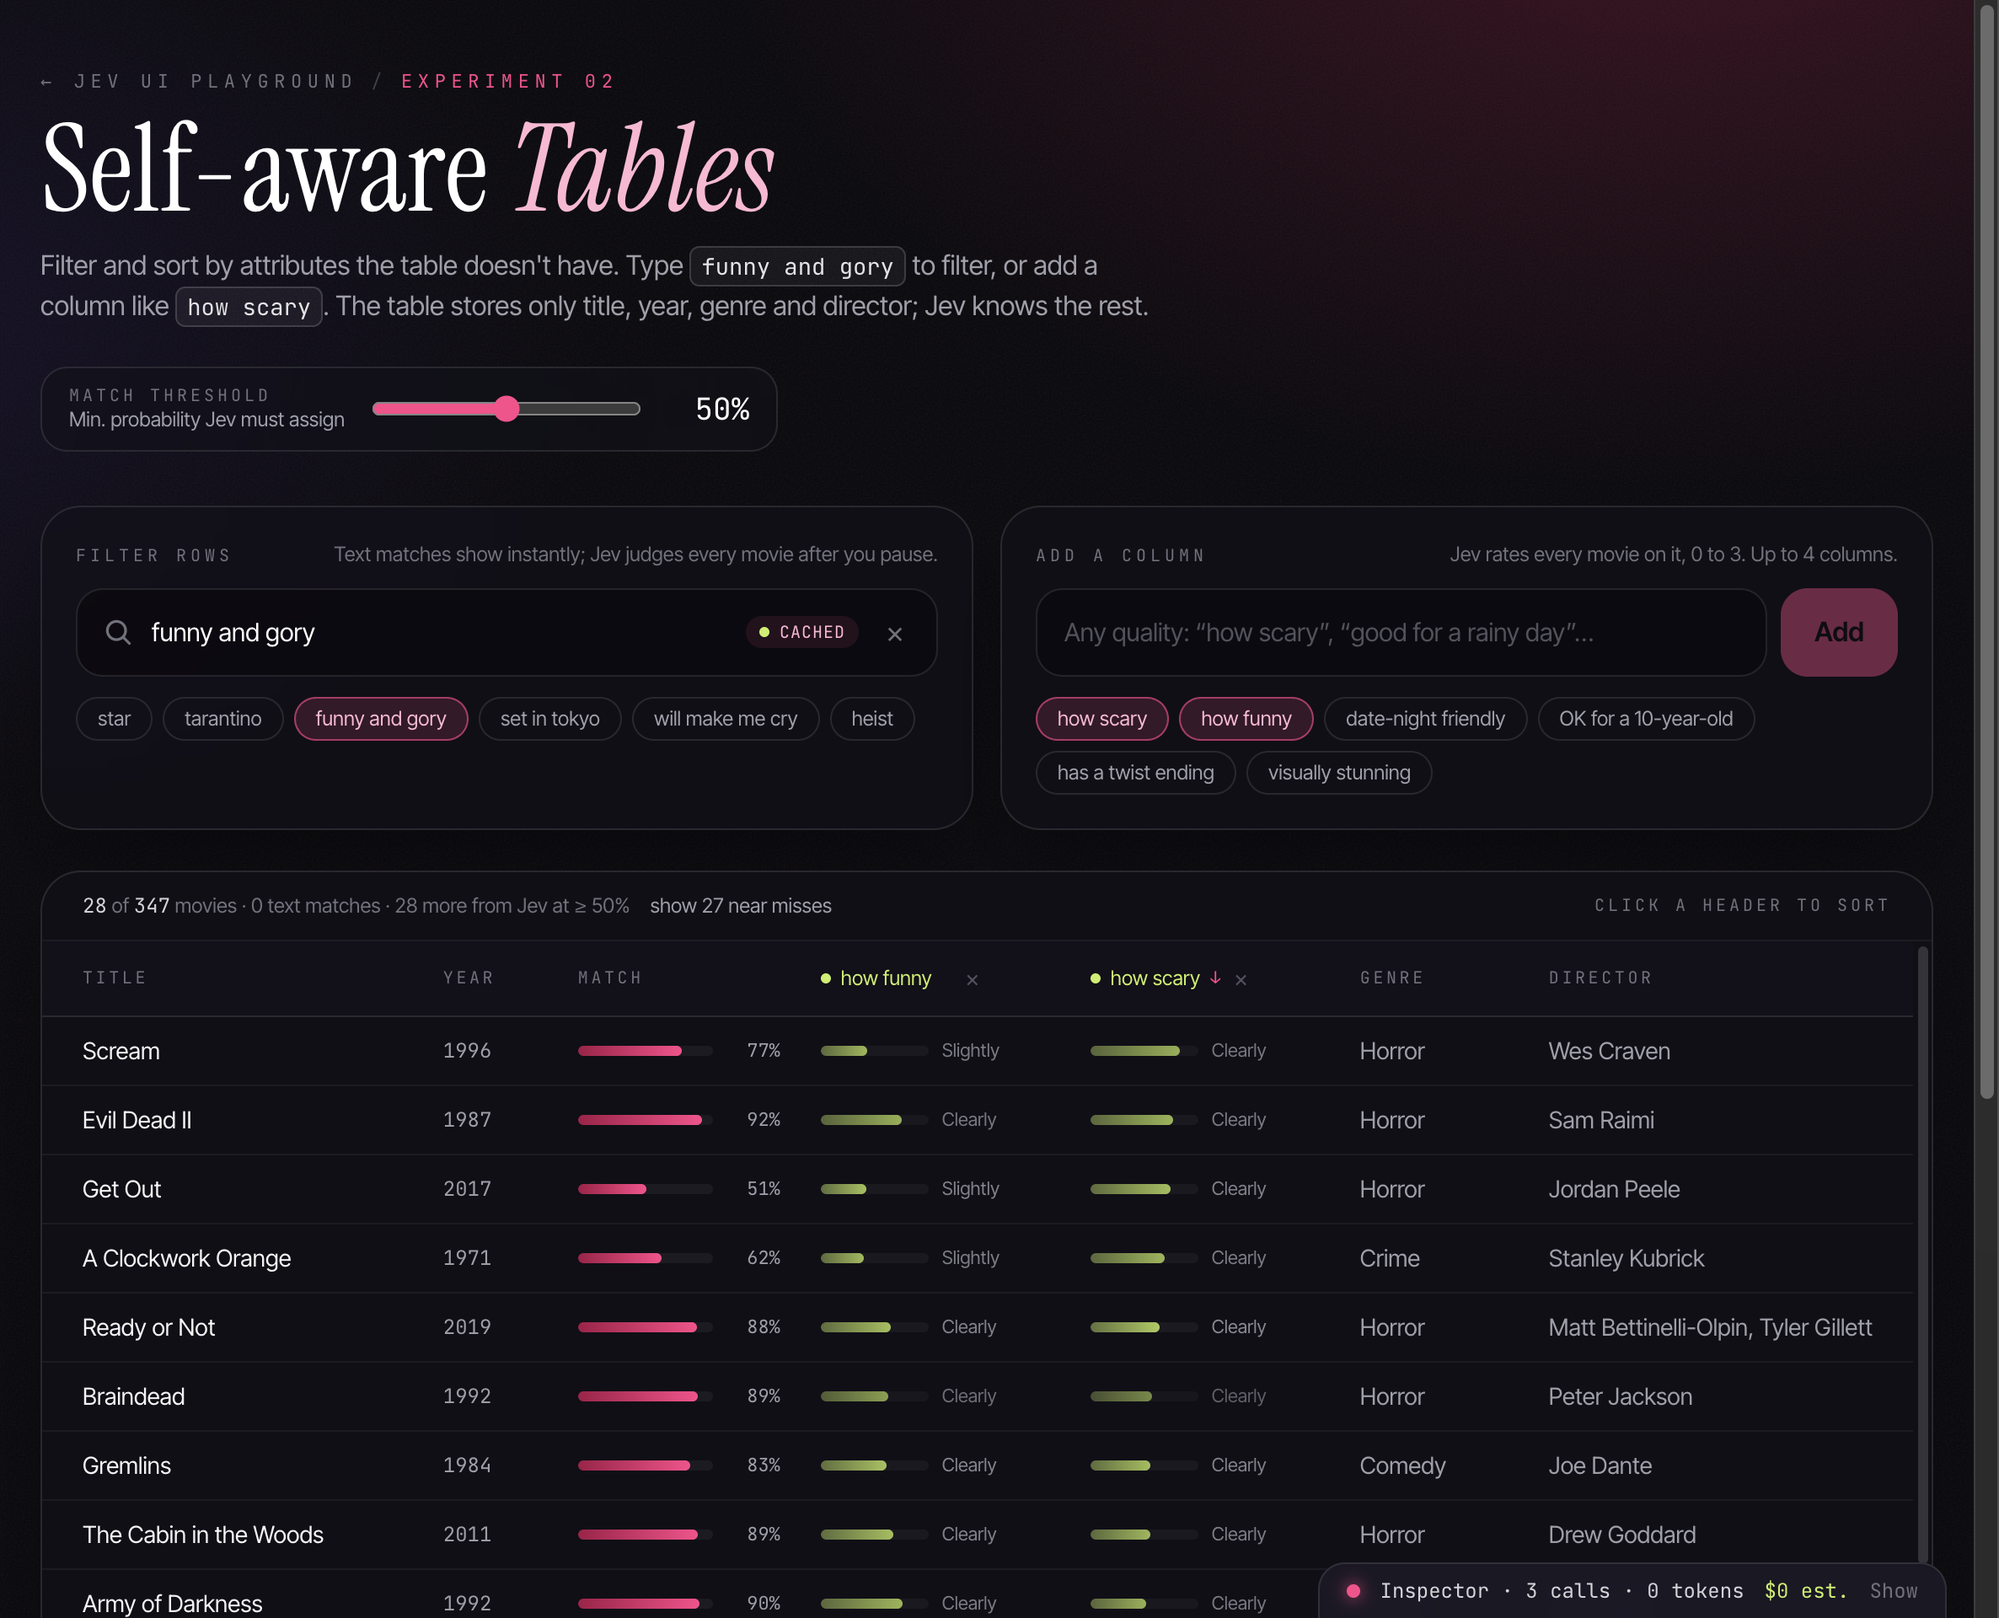
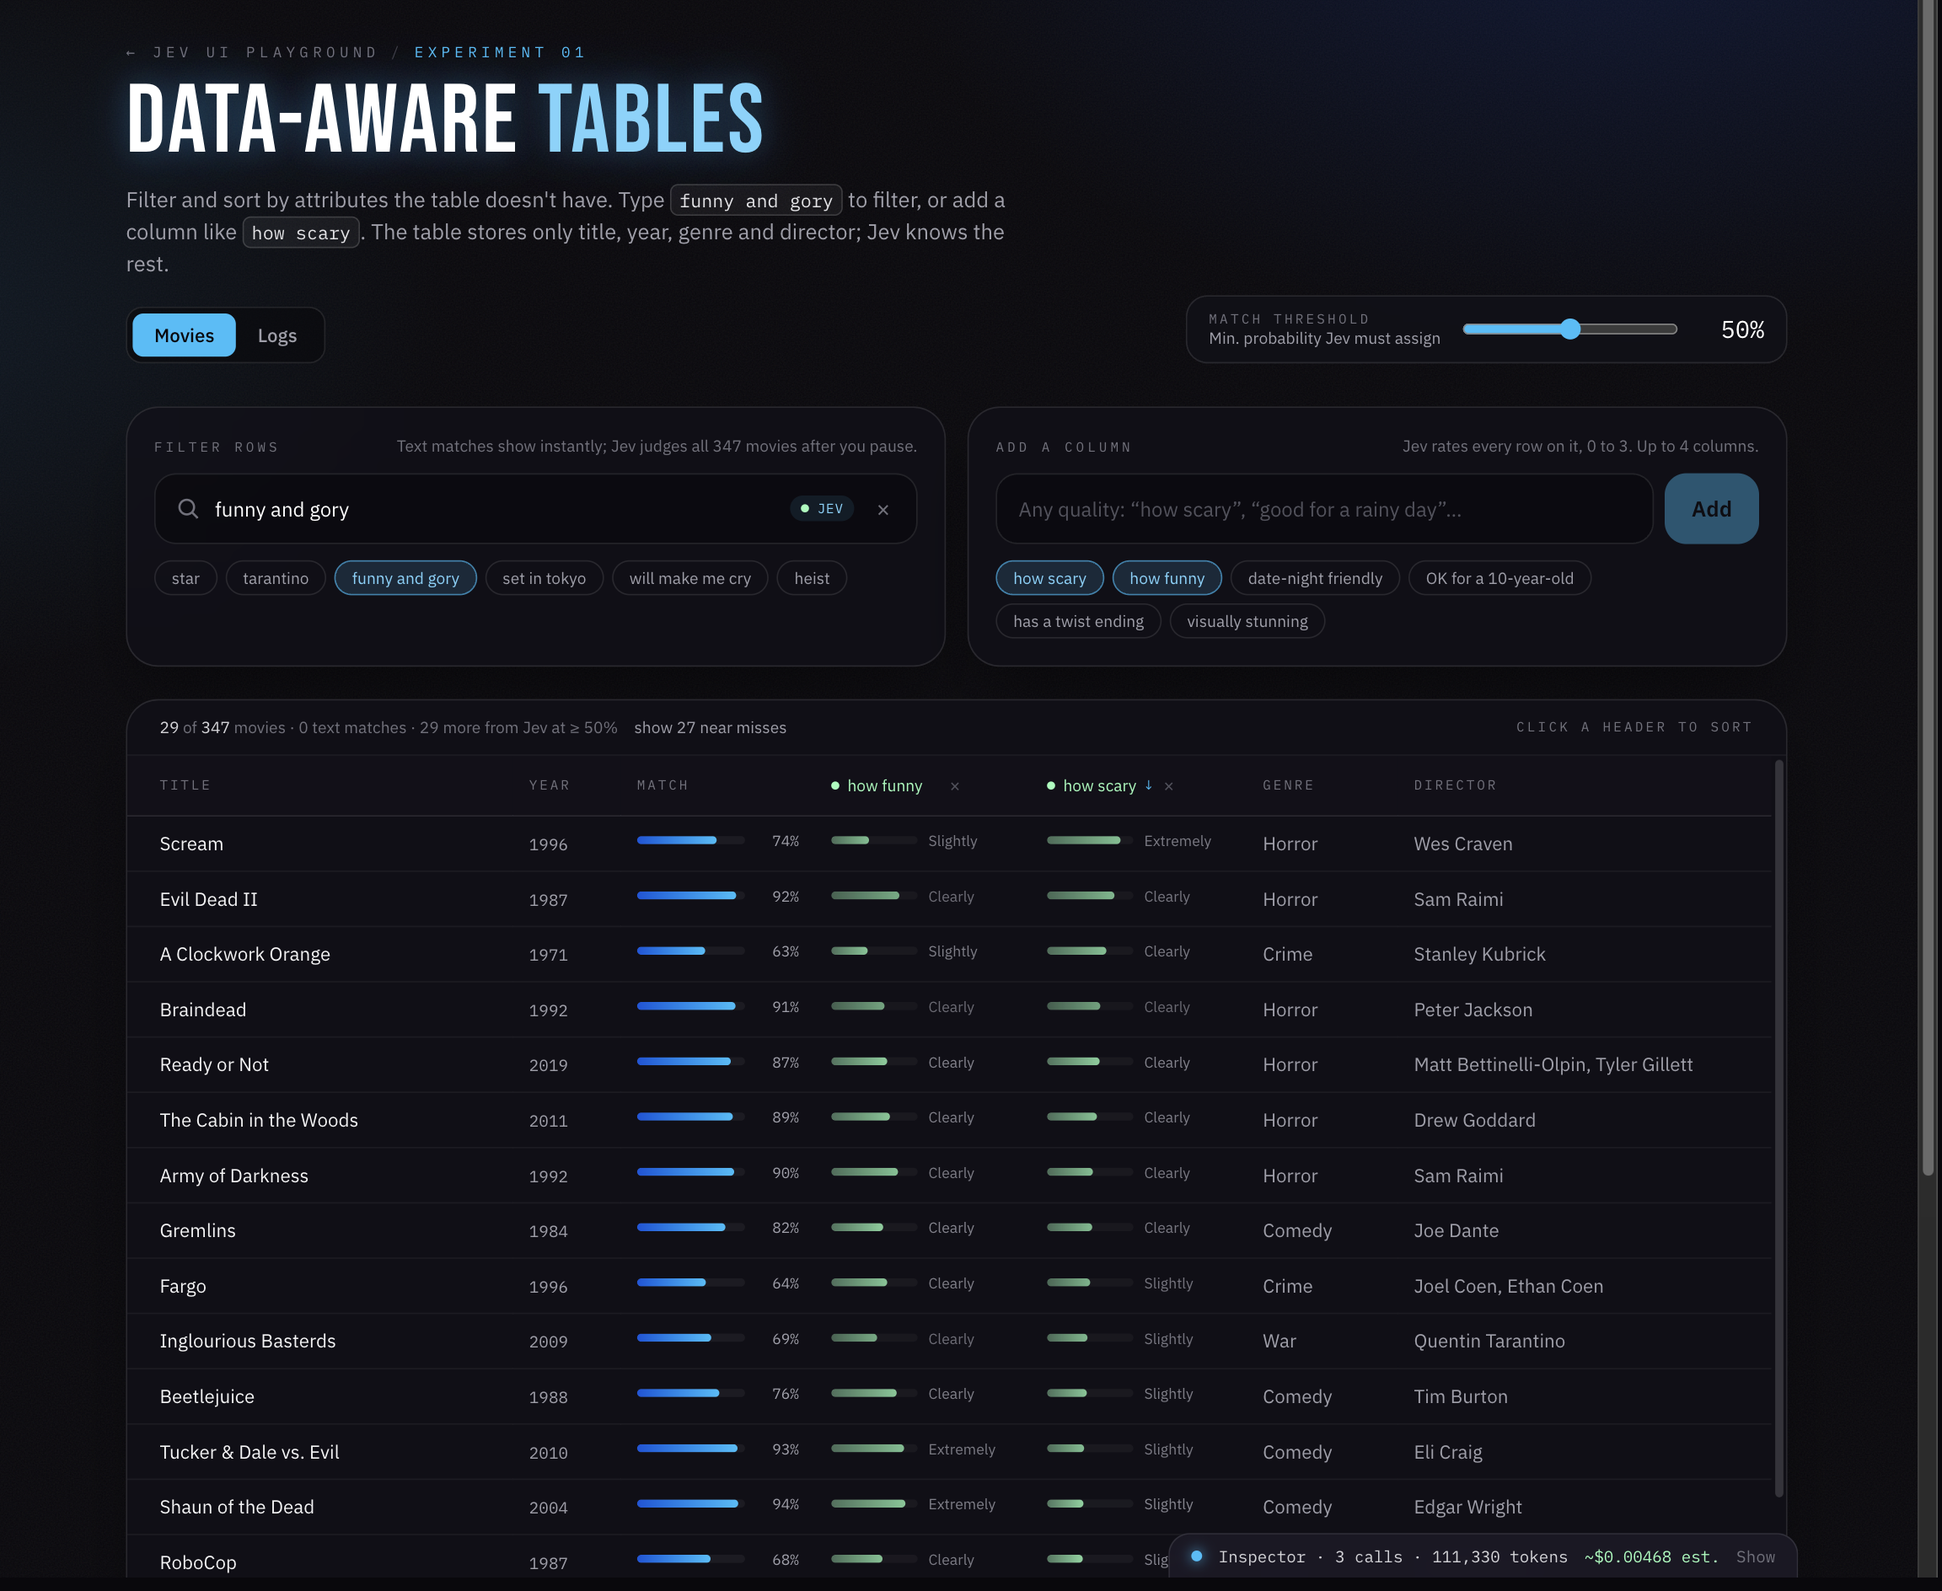
docs(README): Update README to reflect updated samples and ordering

diff --git a/README.md b/README.md
@@ -1,6 +1,6 @@
 # Jev UI Playground
 
-**Live: [jev-ui.newtricks.ai](https://jev-ui.newtricks.ai)**. The landing page links to each experiment: the [Targeting Lab](https://jev-ui.newtricks.ai/targeting) and [Self-aware Tables](https://jev-ui.newtricks.ai/tables).
+**Live: [jev-ui.newtricks.ai](https://jev-ui.newtricks.ai)**. The landing page links to each experiment: [Data-aware Tables](https://jev-ui.newtricks.ai/tables), [Forms that Auto-validate](https://jev-ui.newtricks.ai/forms) and the [Targeting Lab](https://jev-ui.newtricks.ai/targeting).
 
 Jev's latency and cost are such that you can start to imagine including calls to an AI model inside your browser interaction event loop. This repo is a playground for exploring these concepts: semantic search filtering, intelligent geographic and demographic selection, and more.
 
@@ -18,9 +18,48 @@ Taken to the limit, you get a UI toolkit whose widgets take cues from their surr
 
 Some of these ideas are deliberately ridiculous. That's the point. Taking them seriously pulls us past the first, obvious uses of Jev and toward what a semantically aware interface toolkit could be.
 
-![Targeting Lab: a campaign brief pre-fills geography and demographics, "ski towns" and "buys almond milk" filters show Jev's per-item match probabilities, and the audience-fit check reports no conflicts](docs/screenshot.png)
+![Data-aware Tables on the logs dataset: the filter "root cause of the checkout outage" puts the expired-certificate lines first, and Jev-computed "related to the outage" and "how urgent" columns rate every line](docs/screenshot-logs.png)
 
-## The first experiment: ad targeting
+## Experiment 01: Data-aware Tables
+
+[Data-aware Tables](https://jev-ui.newtricks.ai/tables) (`/tables`) is a browsable table that can filter and sort by attributes it doesn't have. A toggle switches between two datasets.
+
+**Movies.** 347 movies, storing only title, year, genre and director. Jev sees only "Title (Year)" for each movie, so everything else comes from its own knowledge.
+
+- **Semantic row filter.** Type `funny and gory` and you get Shaun of the Dead, Zombieland, Tucker & Dale vs. Evil and Deadpool. `set in tokyo` finds Lost in Translation, Tokyo Story, Akira and Perfect Days. Plain text matches on any column (`star`, `tarantino`, `horror`) show instantly. Jev's matches join them after a pause in typing, with a match percentage for each row.
+- **Jev-computed columns.** Add a column like `how scary`, `date-night friendly` or `OK for a 10-year-old`, and Jev rates every movie from "Not at all" to "Extremely". Added columns sort like any other column. The bar dims when Jev is less confident.
+- **Combine them.** Filter to `set in tokyo`, then sort by `how scary`.
+
+![Data-aware Tables on the movies dataset: semantic filter "funny and gory" with Jev-computed "how funny" and "how scary" columns](docs/screenshot-tables.png)
+
+**Logs.** One morning of logs (249 lines) from a small online shop on Black Friday. Most lines are routine traffic, but a story is buried in them. A payments certificate quietly fails to renew, then expires, and checkout goes down for 25 minutes. The 502s set off a retry storm that exhausts the database connection pool, and the on-call engineer eventually renews the certificate by hand. Around that story are unrelated security probes, noisy red herrings, and a few lines that leak customer data.
+
+Each line is still judged on its own question, but Jev also gets the whole log as shared context, so it can connect lines that are hours apart:
+
+- `root cause of the checkout outage` ranks the expired-certificate errors first at 91%. The database-pool errors, which are a symptom, score around 40% and fall below the default threshold. Without the whole-log context, Jev ranked them level with the certificate.
+- `early warning signs` finds the certificate expiry warnings from two hours before the outage, plus the `INFO` line where renewal was skipped because of an ACME rate limit.
+- `logged as INFO but actually bad` puts that same rate-limit line first.
+- `how the outage was fixed` returns just the manual renewal and certificate reload. `errors unrelated to the outage` finds the flaky analytics exporter and the vulnerability scans.
+- `leaks personal data` returns exactly the two lines that do: a debug dump of a card number, and an order confirmation with a home address.
+- As a column, `related to the outage` scores the early rate-limit line "Clearly" related, while `how urgent` rates it only "Slightly", which is how it went unnoticed.
+
+On movies, a filter query costs about 34k input tokens, roughly $0.0014, and returns in around 350 to 500 ms. An added column costs about 39k tokens, since each Score question is a little longer than a Noul. On logs the whole-log context adds about 10k tokens, so a filter is about 38k tokens and a column about 43k. It still fits in one request and returns in 400 to 650 ms.
+
+## Experiment 02: Forms that Auto-validate
+
+[Forms that Auto-validate](https://jev-ui.newtricks.ai/forms) (`/forms`) has two mock forms, a checkout and a trip booking, with **no validation rules written for either**. When you leave a field, Jev reads the whole form and asks, for each answer, whether a careful person would flag it as probably wrong given the others.
+
+- **Rule-free consistency checks.** Presets plant mistakes that no single-field validator would catch. A 90210 postcode on a New York address. A London phone number on an Austin delivery. A porch on the 30th floor. A birthday gift arriving a week late. A ski trip to Miami in July. A solo trip booked for four.
+- **Real but unusual combinations stay quiet.** Paris, Texas, Moscow, Idaho, skiing in Chile in July, and a beach Christmas in Sydney are all plausible, and none of them is flagged.
+- **Blame attribution.** For each suspicious answer, a Choice question asks which other answer it clashes with most. Warnings group related fields, name the clash ("Planned activities doesn't fit with Destination, Packing notes and 3 more fields"), and link to the field.
+- **Soft warnings.** A flag threshold slider sets how sure Jev must be before a warning appears. Every warning can be dismissed with "This is correct", and nothing blocks submitting.
+- **Label-aware fields.** A sandbox below the forms takes a field label and the form it sits in, and Jev picks the control: input type, a list of options, and a default. A separate gate decides whether any default is appropriate. "Size" on a pizza order defaults to Medium, while "Date of birth" on a job application and "Send me news and offers" on a checkout start blank.
+
+![Forms that Auto-validate: a trip booking with a ski trip to Miami in July, flagged at 94% with a warning naming the fields it clashes with](docs/screenshot-forms.png)
+
+These calls are small. A cross-check of the trip form is 14 questions in about 2.2k input tokens and returns in around 200 ms. A sandbox field is 22 questions in about 2.6k tokens.
+
+## Experiment 03: Targeting Lab
 
 The [Targeting Lab](https://jev-ui.newtricks.ai/targeting) (`/targeting`) is a mock ad-targeting setup screen. It has two pickers: US geography (51 states and DC, plus 323 cities) and audience demographics (184 segments across age, income, education, household, occupation, interests, life events and purchase behavior). The candidate lists contain **only names**. No attributes, tags or categories are stored.
 
@@ -28,19 +67,10 @@ The [Targeting Lab](https://jev-ui.newtricks.ai/targeting) (`/targeting`) is a m
 - **Match threshold.** A slider sets the minimum probability a candidate needs to count as a match. Each result shows a confidence bar, so you can see how sure Jev is.
 - **Campaign brief pre-fill.** Describe the campaign in plain English, for example "Snowboard rental deals for college students near the Rockies". Jev fills in both sections from the brief. Two gate questions ask whether the brief implies a geography and whether it implies an audience. A section is only pre-filled when its gate says yes, so "Premium dog food for millennials" sets an audience but leaves geography alone.
 - **Audience-fit check.** Jev rates every selected place and segment against the brief on a four-level scale and flags the ones that don't fit.
-- **Request inspector.** A drawer at the bottom shows each Jev call: the question count, input tokens, latency, estimated cost, and a sample of the request and answers.
 
-## The second experiment: self-aware tables
+![Targeting Lab: a campaign brief pre-fills geography and demographics, and the "ski towns" and "buys almond milk" filters show Jev's per-item match probabilities](docs/screenshot.png)
 
-[Self-aware Tables](https://jev-ui.newtricks.ai/tables) (`/tables`) is a browsable table of 347 movies. It explores filtering and sorting by attributes that aren't in the table. The table stores only title, year, genre and director, and Jev sees only "Title (Year)" for each movie.
-
-- **Semantic row filter.** Type `funny and gory` and you get Shaun of the Dead, Zombieland, Tucker & Dale vs. Evil and Deadpool. `set in tokyo` finds Lost in Translation, Tokyo Story, Akira and Perfect Days. Plain text matches on any column (`star`, `tarantino`, `horror`) show instantly. Jev's matches join them after a pause in typing, with a match percentage for each row.
-- **Jev-computed columns.** Add a column like `how scary`, `date-night friendly` or `OK for a 10-year-old`, and Jev rates every movie from "Not at all" to "Extremely". Added columns sort like any other column. The bar dims when Jev is less confident.
-- **Combine them.** Filter to `set in tokyo`, then sort by `how scary`.
-
-![Self-aware Tables: semantic filter "funny and gory" with Jev-computed "how funny" and "how scary" columns](docs/screenshot-tables.png)
-
-A filter query costs about 34k input tokens, roughly $0.0014, and returns in around 350 to 500 ms. An added column costs about 39k tokens, since each Score question is a little longer than a Noul.
+Every experiment also has a **request inspector**: a drawer at the bottom that shows each Jev call, with the question count, input tokens, latency, estimated cost, and a sample of the request and answers.
 
 ## How it uses Jev
 
@@ -49,6 +79,8 @@ Everything goes through the [TypeSafe](https://typesafe.ai) System One API via `
 - **One question per candidate, batched.** A filter query becomes one Noul (a yes/no probability) per candidate, sent together in a single request. The candidate's name goes inline in its question, as in `{ place: "Aspen, Colorado", question: "Does \`place\` match what \`filter\` describes?" }`, and the query itself goes in shared state. Inline labels proved far more accurate than asking Jev to index into a list held in state, and they use fewer tokens.
 - **Gates before bulk work.** The brief endpoint asks Jev "does this brief imply a geography?" alongside the per-candidate questions, and it ignores that section's scores unless the gate passes.
 - **Scores for graded judgments.** The fit check and the added table columns use a four-level Score instead of a Noul, because "how well does this fit?" or "how scary is it?" is a scale, not a yes/no.
+- **Choices for picking one of many.** The form cross-check asks a Choice per field ("which other answer conflicts most with this one?", with a "none" option) to decide what a warning should point at. The field sandbox uses Choices to pick an input type, an option list and a default.
+- **Shared context for judgments that depend on the whole.** For the logs table, the full log goes into shared state and each line's question says "read in the context of the whole log". Every per-line question can then see the story around it, at the cost of one copy of the log per request rather than one per question.
 - **Cheap enough to be a UI primitive.** A geography query scores all 374 places in about 37k input tokens. At Jev's $42 per billion input tokens that's roughly $0.0015, and it returns in around 300 to 500 ms. Demographics queries use about 19k tokens. Output tokens are free.
 
 The server keeps the API key private. It also caches identical requests (LRU), rate-limits by IP, and caps input lengths. The client debounces typing, cancels stale requests, and merges local name matches with Jev's scores.
@@ -70,14 +102,16 @@ The Jev integration lives in `server/jev.ts` (batching and chunking) and `server
 src/
   App.tsx       Route table (path → page and document title)
   examples.ts   Example registry shown on the landing page
-  pages/        Home (landing page), TargetingLab, SmartTable
-  components/   SmartFilter, BriefBox, FitPanel, SummaryPanel, Inspector, ThresholdSlider
-  data/         geo.ts, demographics.ts and movies.ts (names and plain facts only)
-  lib/          Router, API client, filter and column hooks, inspector store, cost estimate
+  pages/        Home (landing page), SmartTable, CrossCheckForms, TargetingLab
+  components/   SmartFilter, CrossCheckForm, FieldSandbox, BriefBox, FitPanel, SummaryPanel,
+                Inspector, ThresholdSlider
+  data/         movies.ts and logs.ts (table rows), tableDatasets.ts (per-dataset columns and chips),
+                forms.ts and fieldCatalog.ts (forms, presets, option lists), geo.ts and demographics.ts
+  lib/          Router, API client, filter, column and cross-check hooks, inspector store, cost estimate
   shared/       Types shared by client and server
 server/
   index.ts      Hono app: /api, /healthz, rate limit, static files in production
-  routes.ts     /api/filter, /api/brief, /api/fit, /api/column
+  routes.ts     /api/filter, /api/column, /api/crosscheck, /api/fieldspec, /api/brief, /api/fit
   jev.ts        Batches per-candidate questions into System One requests
 ```
 
@@ -91,7 +125,7 @@ cp .env.example .env    # then set TYPESAFE_API_KEY
 pnpm dev
 ```
 
-Open [http://localhost:5173](http://localhost:5173) for the landing page. The experiments are at [/targeting](http://localhost:5173/targeting) and [/tables](http://localhost:5173/tables). Vite serves the UI, and the Hono API runs on port 8787 behind Vite's `/api` proxy.
+Open [http://localhost:5173](http://localhost:5173) for the landing page. The experiments are at [/tables](http://localhost:5173/tables), [/forms](http://localhost:5173/forms) and [/targeting](http://localhost:5173/targeting). Vite serves the UI, and the Hono API runs on port 8787 behind Vite's `/api` proxy.
 
 Optional settings in `.env`:
 
@@ -122,6 +156,6 @@ Pushing to `main` runs CI, builds a Docker image, pushes it to GHCR, and deploys
 
 ## Ideas for next experiments
 
-- Self-aware tables over private data, where each row's label carries a short description because Jev can't know the items ("rows that look like test accounts").
-- Form fields that sanity-check each other ("this shipping address doesn't match the stated country").
-- Controls that adapt their defaults to the label or heading they sit under.
+- Data-aware tables over private data, where each row's label carries a short description because Jev can't know the items ("rows that look like test accounts").
+- A button that knows what its label promises, and warns when the form around it doesn't deliver it.
+- Cross-checked forms that also suggest the likely fix, not just the clash.
